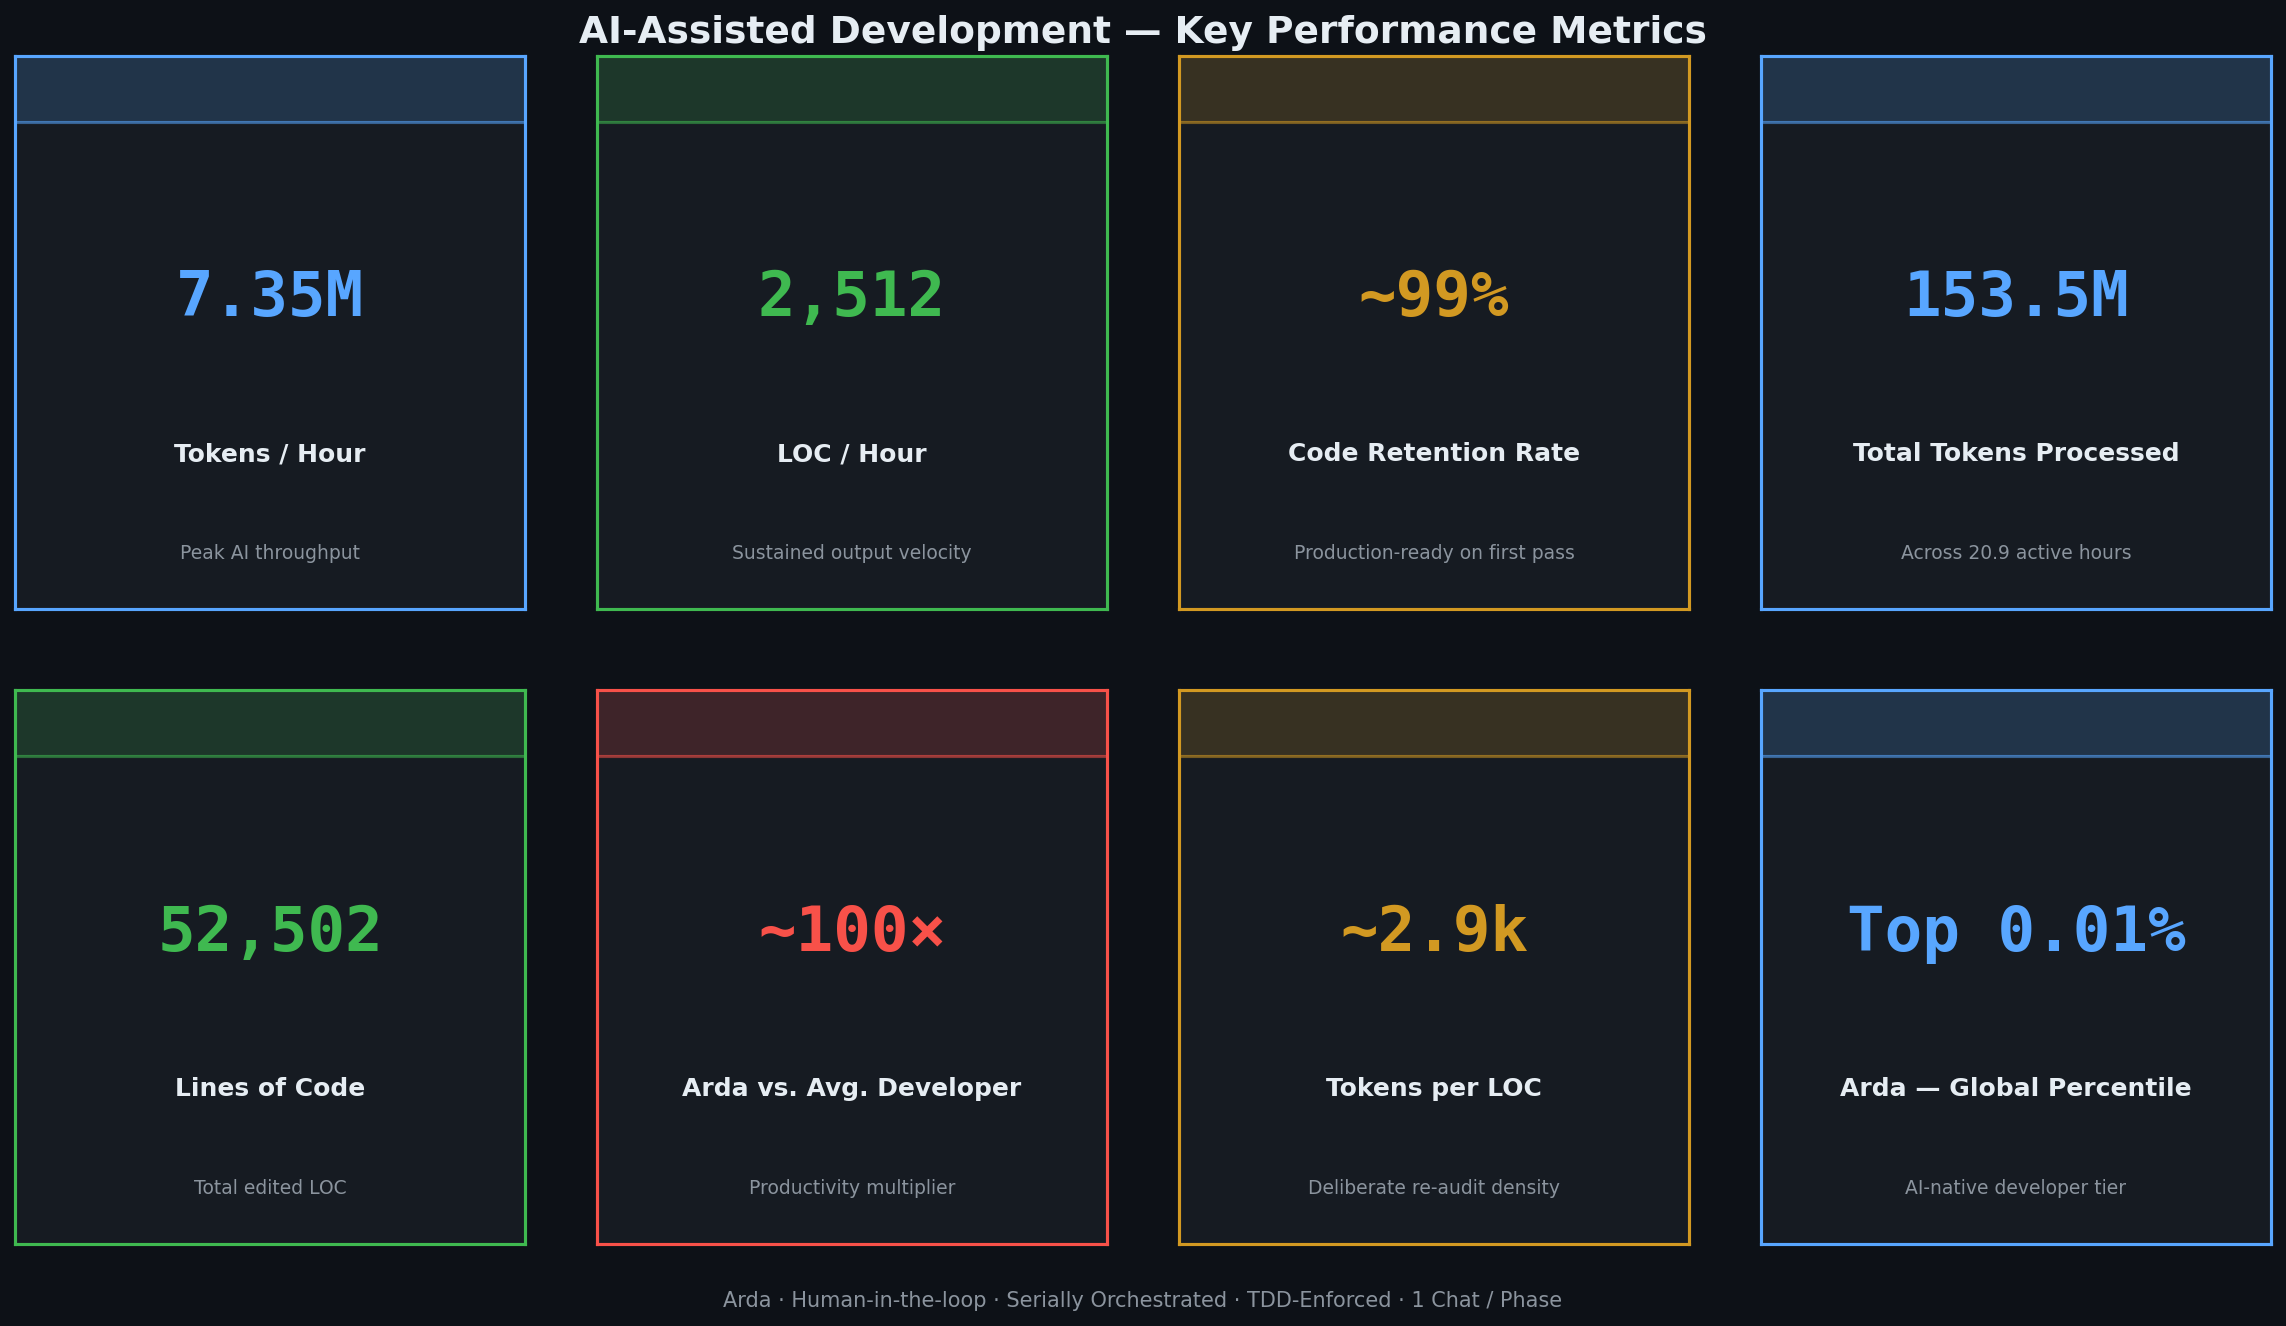
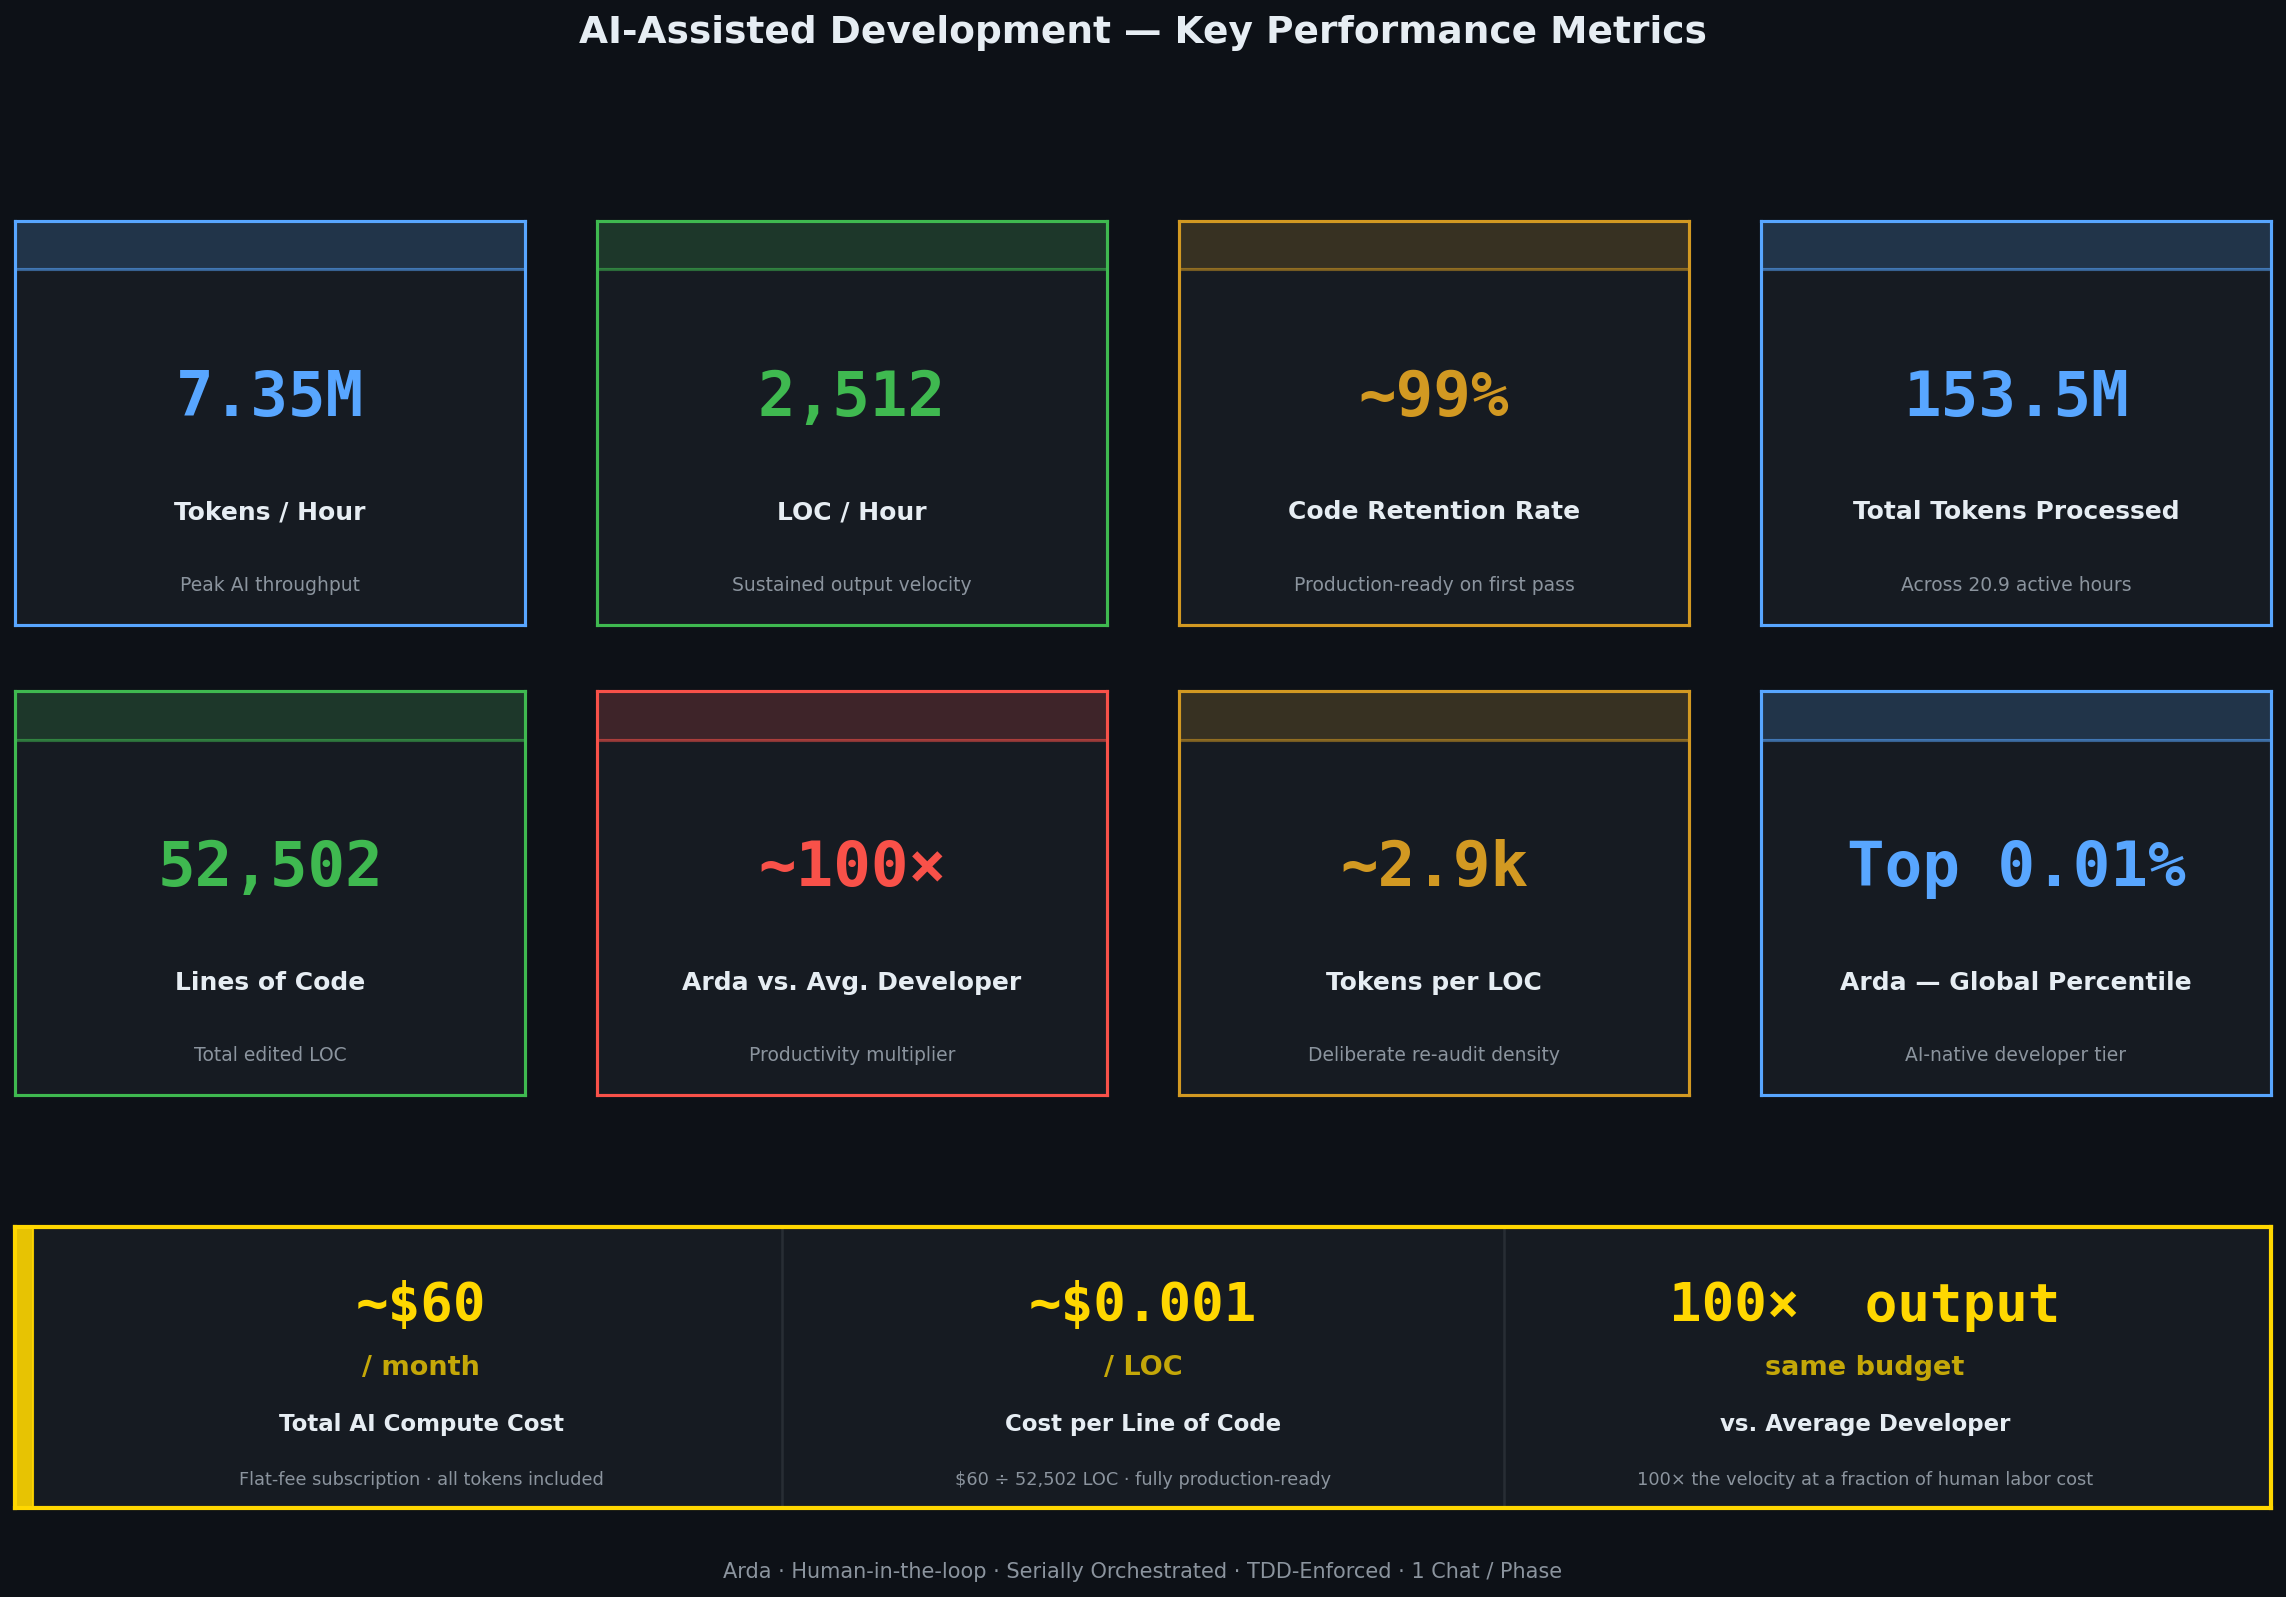
updated visuals

diff --git a/docs/visuals/generate_charts.py b/docs/visuals/generate_charts.py
@@ -134,30 +134,40 @@ def chart_competitive_benchmark():
 # 2. METRICS DASHBOARD  (KPI cards grid)
 # ─────────────────────────────────────────────────────────────────────────────
 def chart_metrics_dashboard():
-    fig = plt.figure(figsize=(16, 9))
+    fig = plt.figure(figsize=(16, 11))
     fig.patch.set_facecolor(DARK_BG)
 
     cards = [
-        ("7.35M",      "Tokens / Hour",          ACCENT,  "Peak AI throughput"),
-        ("2,512",      "LOC / Hour",              ACCENT2, "Sustained output velocity"),
-        ("~99%",       "Code Retention Rate",     ACCENT3, "Production-ready on first pass"),
-        ("153.5M",     "Total Tokens Processed",  ACCENT,  "Across 20.9 active hours"),
-        ("52,502",     "Lines of Code",           ACCENT2, "Total edited LOC"),
+        ("7.35M",      "Tokens / Hour",           ACCENT,  "Peak AI throughput"),
+        ("2,512",      "LOC / Hour",               ACCENT2, "Sustained output velocity"),
+        ("~99%",       "Code Retention Rate",      ACCENT3, "Production-ready on first pass"),
+        ("153.5M",     "Total Tokens Processed",   ACCENT,  "Across 20.9 active hours"),
+        ("52,502",     "Lines of Code",            ACCENT2, "Total edited LOC"),
         ("~100×",      "Arda vs. Avg. Developer",  RED,     "Productivity multiplier"),
-        ("~2.9k",      "Tokens per LOC",          ACCENT3, "Deliberate re-audit density"),
+        ("~2.9k",      "Tokens per LOC",           ACCENT3, "Deliberate re-audit density"),
         ("Top 0.01%",  "Arda — Global Percentile", ACCENT,  "AI-native developer tier"),
     ]
 
+    # title
+    fig.text(0.5, 0.975,
+             "AI-Assisted Development — Key Performance Metrics",
+             ha="center", va="top",
+             color=TEXT, fontsize=18, fontweight="bold")
+
+    # 8 KPI cards (4×2 grid)
     n_cols, n_rows = 4, 2
-    pad_x, pad_y   = 0.03, 0.06
+    pad_x  = 0.03
+    top_y  = 0.89   # where cards start (below title)
+    bot_y  = 0.28   # where cards end (above cost banner)
+    pad_y  = 0.04
     w = (1 - pad_x * (n_cols + 1)) / n_cols
-    h = (1 - pad_y * (n_rows + 1)) / n_rows
+    h = (top_y - bot_y - pad_y * (n_rows + 1)) / n_rows
 
     for i, (value, label, color, sub) in enumerate(cards):
         col = i % n_cols
         row = i // n_cols
         x0  = pad_x + col * (w + pad_x)
-        y0  = 1 - pad_y - (row + 1) * h - row * pad_y
+        y0  = top_y - pad_y - (row + 1) * h - row * pad_y
 
         ax = fig.add_axes([x0, y0, w, h])
         ax.set_facecolor(CARD_BG)
@@ -169,7 +179,6 @@ def chart_metrics_dashboard():
             spine.set_color(color)
             spine.set_linewidth(1.5)
 
-        # accent bar at top
         ax.add_patch(FancyBboxPatch(
             (0, 0.88), 1, 0.12,
             boxstyle="square,pad=0", color=color, alpha=0.18, transform=ax.transAxes
@@ -187,11 +196,55 @@ def chart_metrics_dashboard():
                 ha="center", va="center", transform=ax.transAxes,
                 color=SUBTEXT, fontsize=9)
 
-    fig.text(0.5, 0.97,
-             "AI-Assisted Development — Key Performance Metrics",
-             ha="center", va="top",
-             color=TEXT, fontsize=18, fontweight="bold")
-    fig.text(0.5, 0.01,
+    # ── Cost Efficiency Banner ──────────────────────────────────────────────
+    GOLD   = "#ffd700"
+    banner_y = 0.07
+    banner_h = 0.17
+    ax_cost = fig.add_axes([pad_x, banner_y, 1 - 2 * pad_x, banner_h])
+    ax_cost.set_facecolor(CARD_BG)
+    ax_cost.set_xlim(0, 1)
+    ax_cost.set_ylim(0, 1)
+    ax_cost.set_xticks([])
+    ax_cost.set_yticks([])
+    for spine in ax_cost.spines.values():
+        spine.set_color(GOLD)
+        spine.set_linewidth(2.0)
+
+    # gold accent strip on left
+    ax_cost.add_patch(FancyBboxPatch(
+        (0, 0), 0.008, 1,
+        boxstyle="square,pad=0", color=GOLD, alpha=0.9, transform=ax_cost.transAxes
+    ))
+
+    # three columns inside the banner
+    col_data = [
+        ("~$60",         "/ month",          "Total AI Compute Cost",
+         "Flat-fee subscription · all tokens included"),
+        ("~$0.001",      "/ LOC",            "Cost per Line of Code",
+         "$60 ÷ 52,502 LOC · fully production-ready"),
+        ("100×  output", "same budget",      "vs. Average Developer",
+         "100× the velocity at a fraction of human labor cost"),
+    ]
+    xs = [0.18, 0.50, 0.82]
+    for cx, (big, small, label, sub) in zip(xs, col_data):
+        ax_cost.text(cx, 0.72, big,
+                     ha="center", va="center", transform=ax_cost.transAxes,
+                     color=GOLD, fontsize=26, fontweight="bold", fontfamily="monospace")
+        ax_cost.text(cx, 0.50, small,
+                     ha="center", va="center", transform=ax_cost.transAxes,
+                     color=GOLD, fontsize=13, fontweight="bold", alpha=0.75)
+        ax_cost.text(cx, 0.30, label,
+                     ha="center", va="center", transform=ax_cost.transAxes,
+                     color=TEXT, fontsize=11, fontweight="semibold")
+        ax_cost.text(cx, 0.10, sub,
+                     ha="center", va="center", transform=ax_cost.transAxes,
+                     color=SUBTEXT, fontsize=8.5)
+
+    # vertical dividers
+    for divx in [0.34, 0.66]:
+        ax_cost.axvline(divx, color=BORDER, lw=1.2, alpha=0.7)
+
+    fig.text(0.5, 0.025,
              "Arda · Human-in-the-loop · Serially Orchestrated · TDD-Enforced · 1 Chat / Phase",
              ha="center", va="bottom",
              color=SUBTEXT, fontsize=10)
